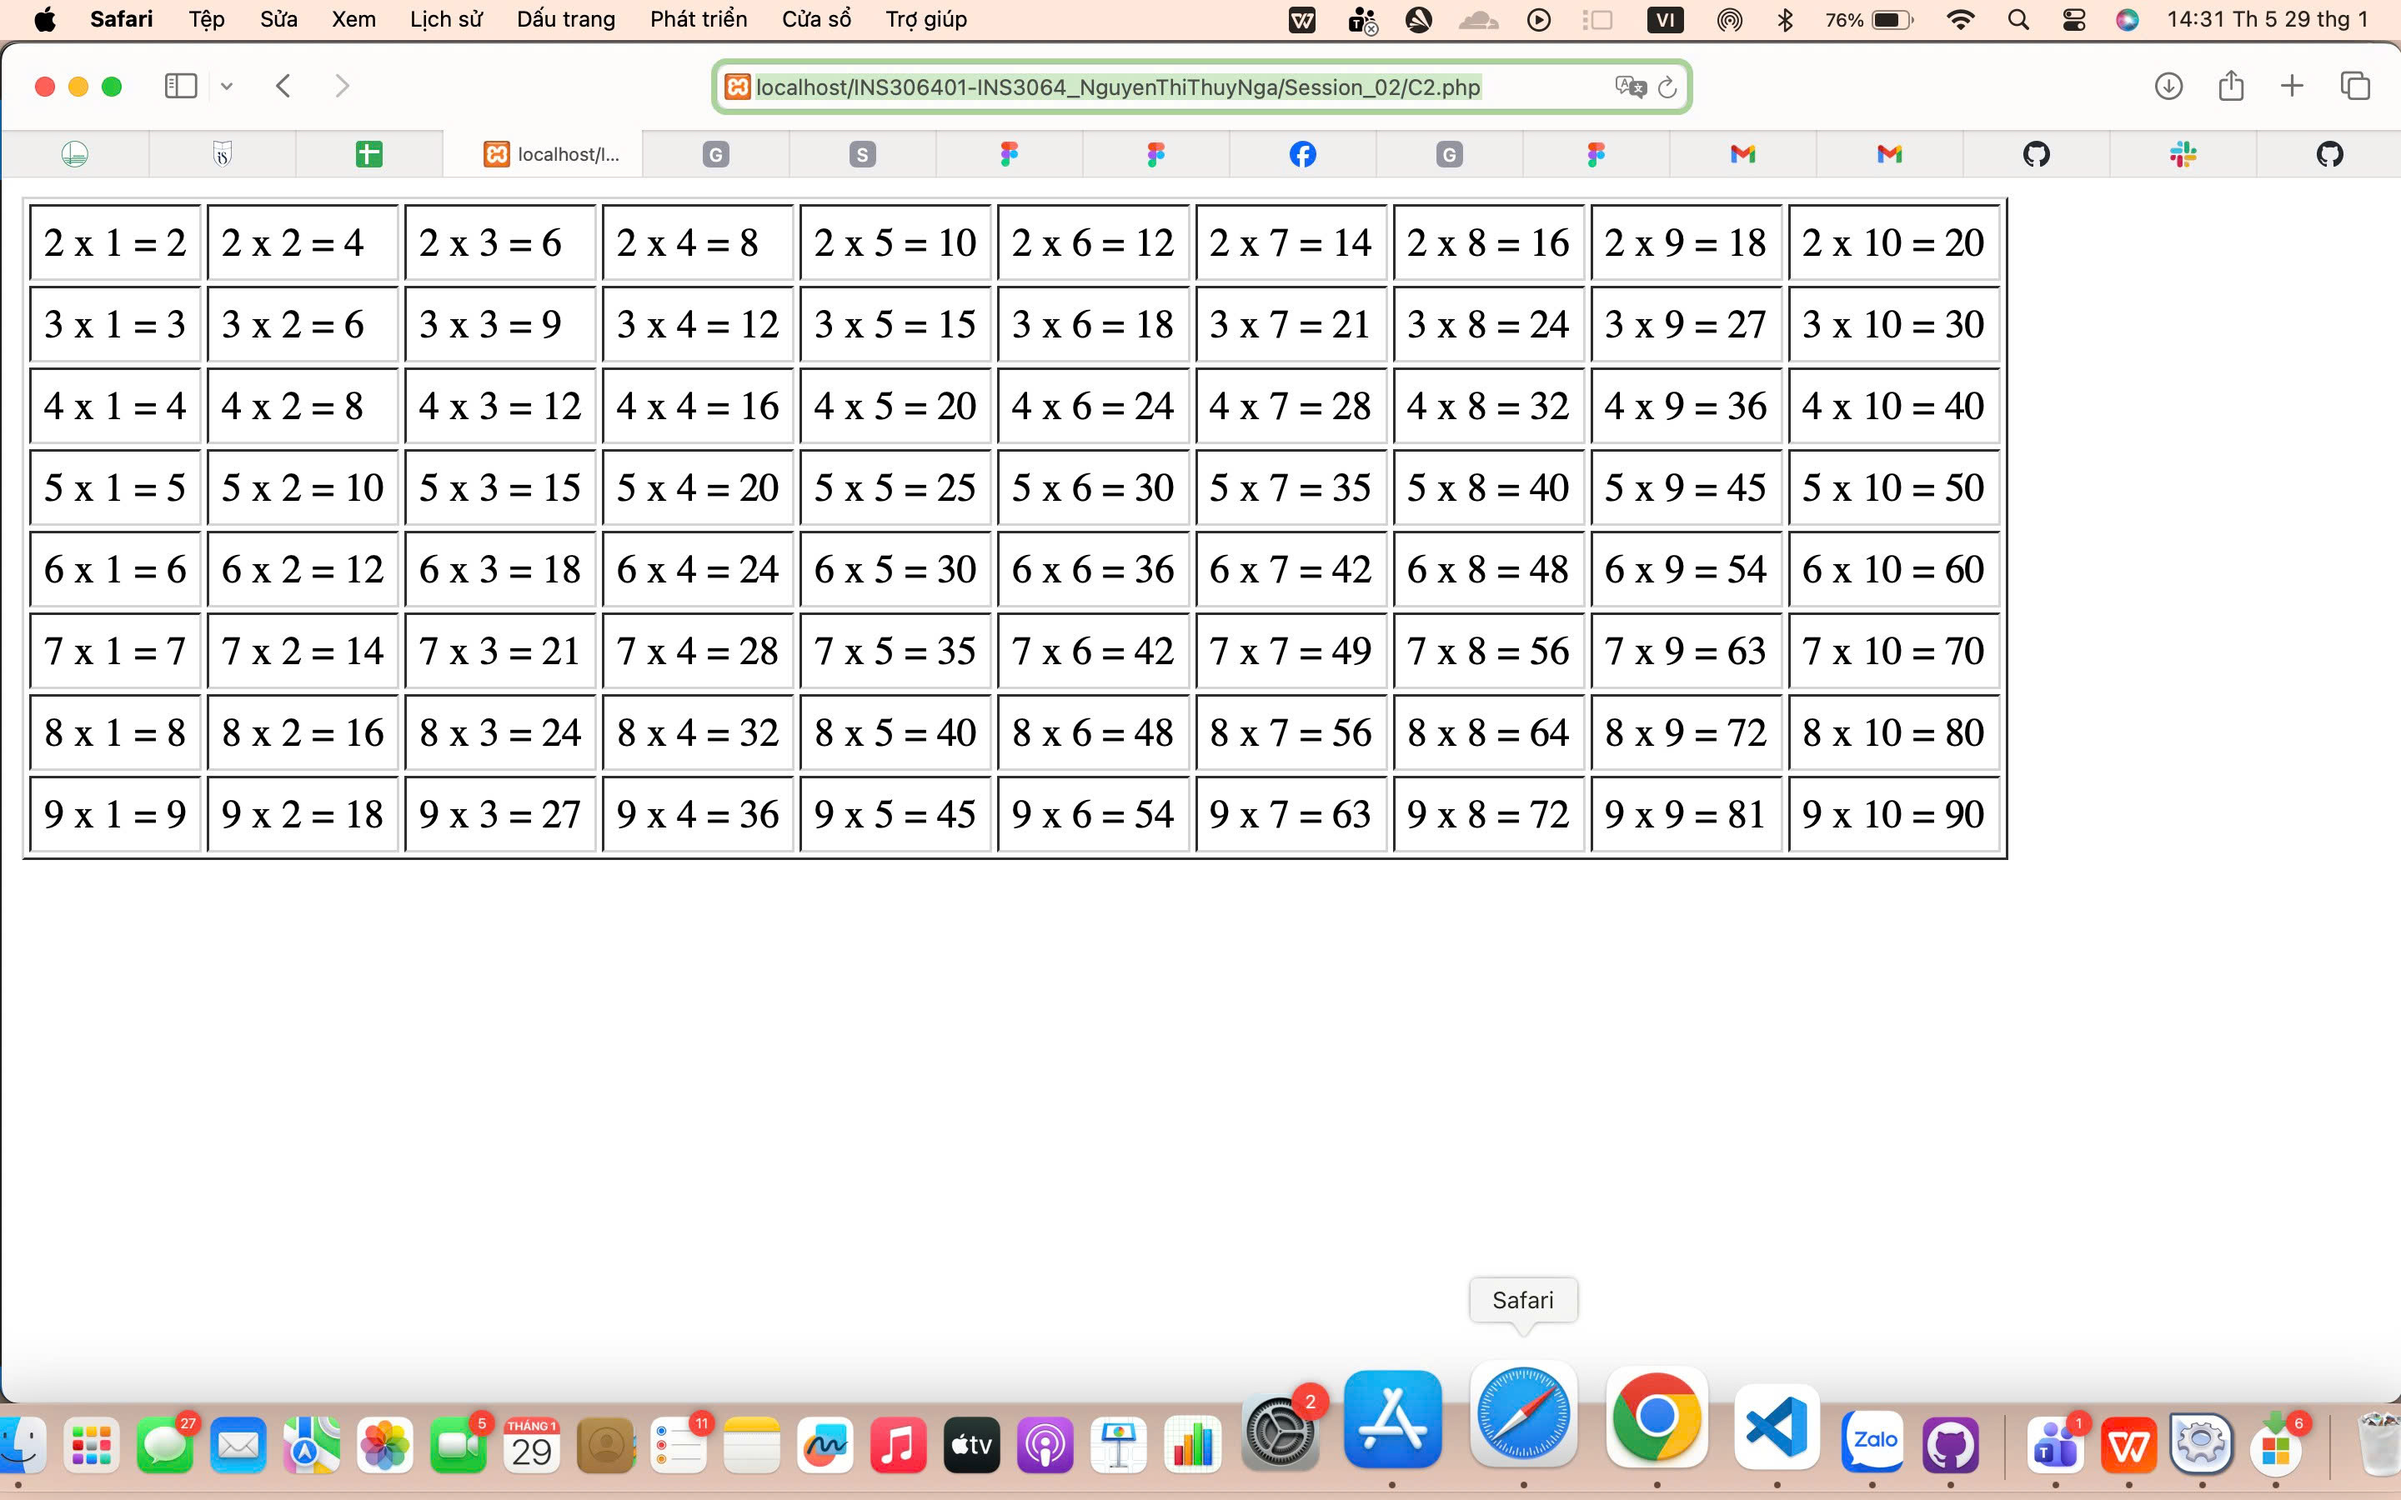
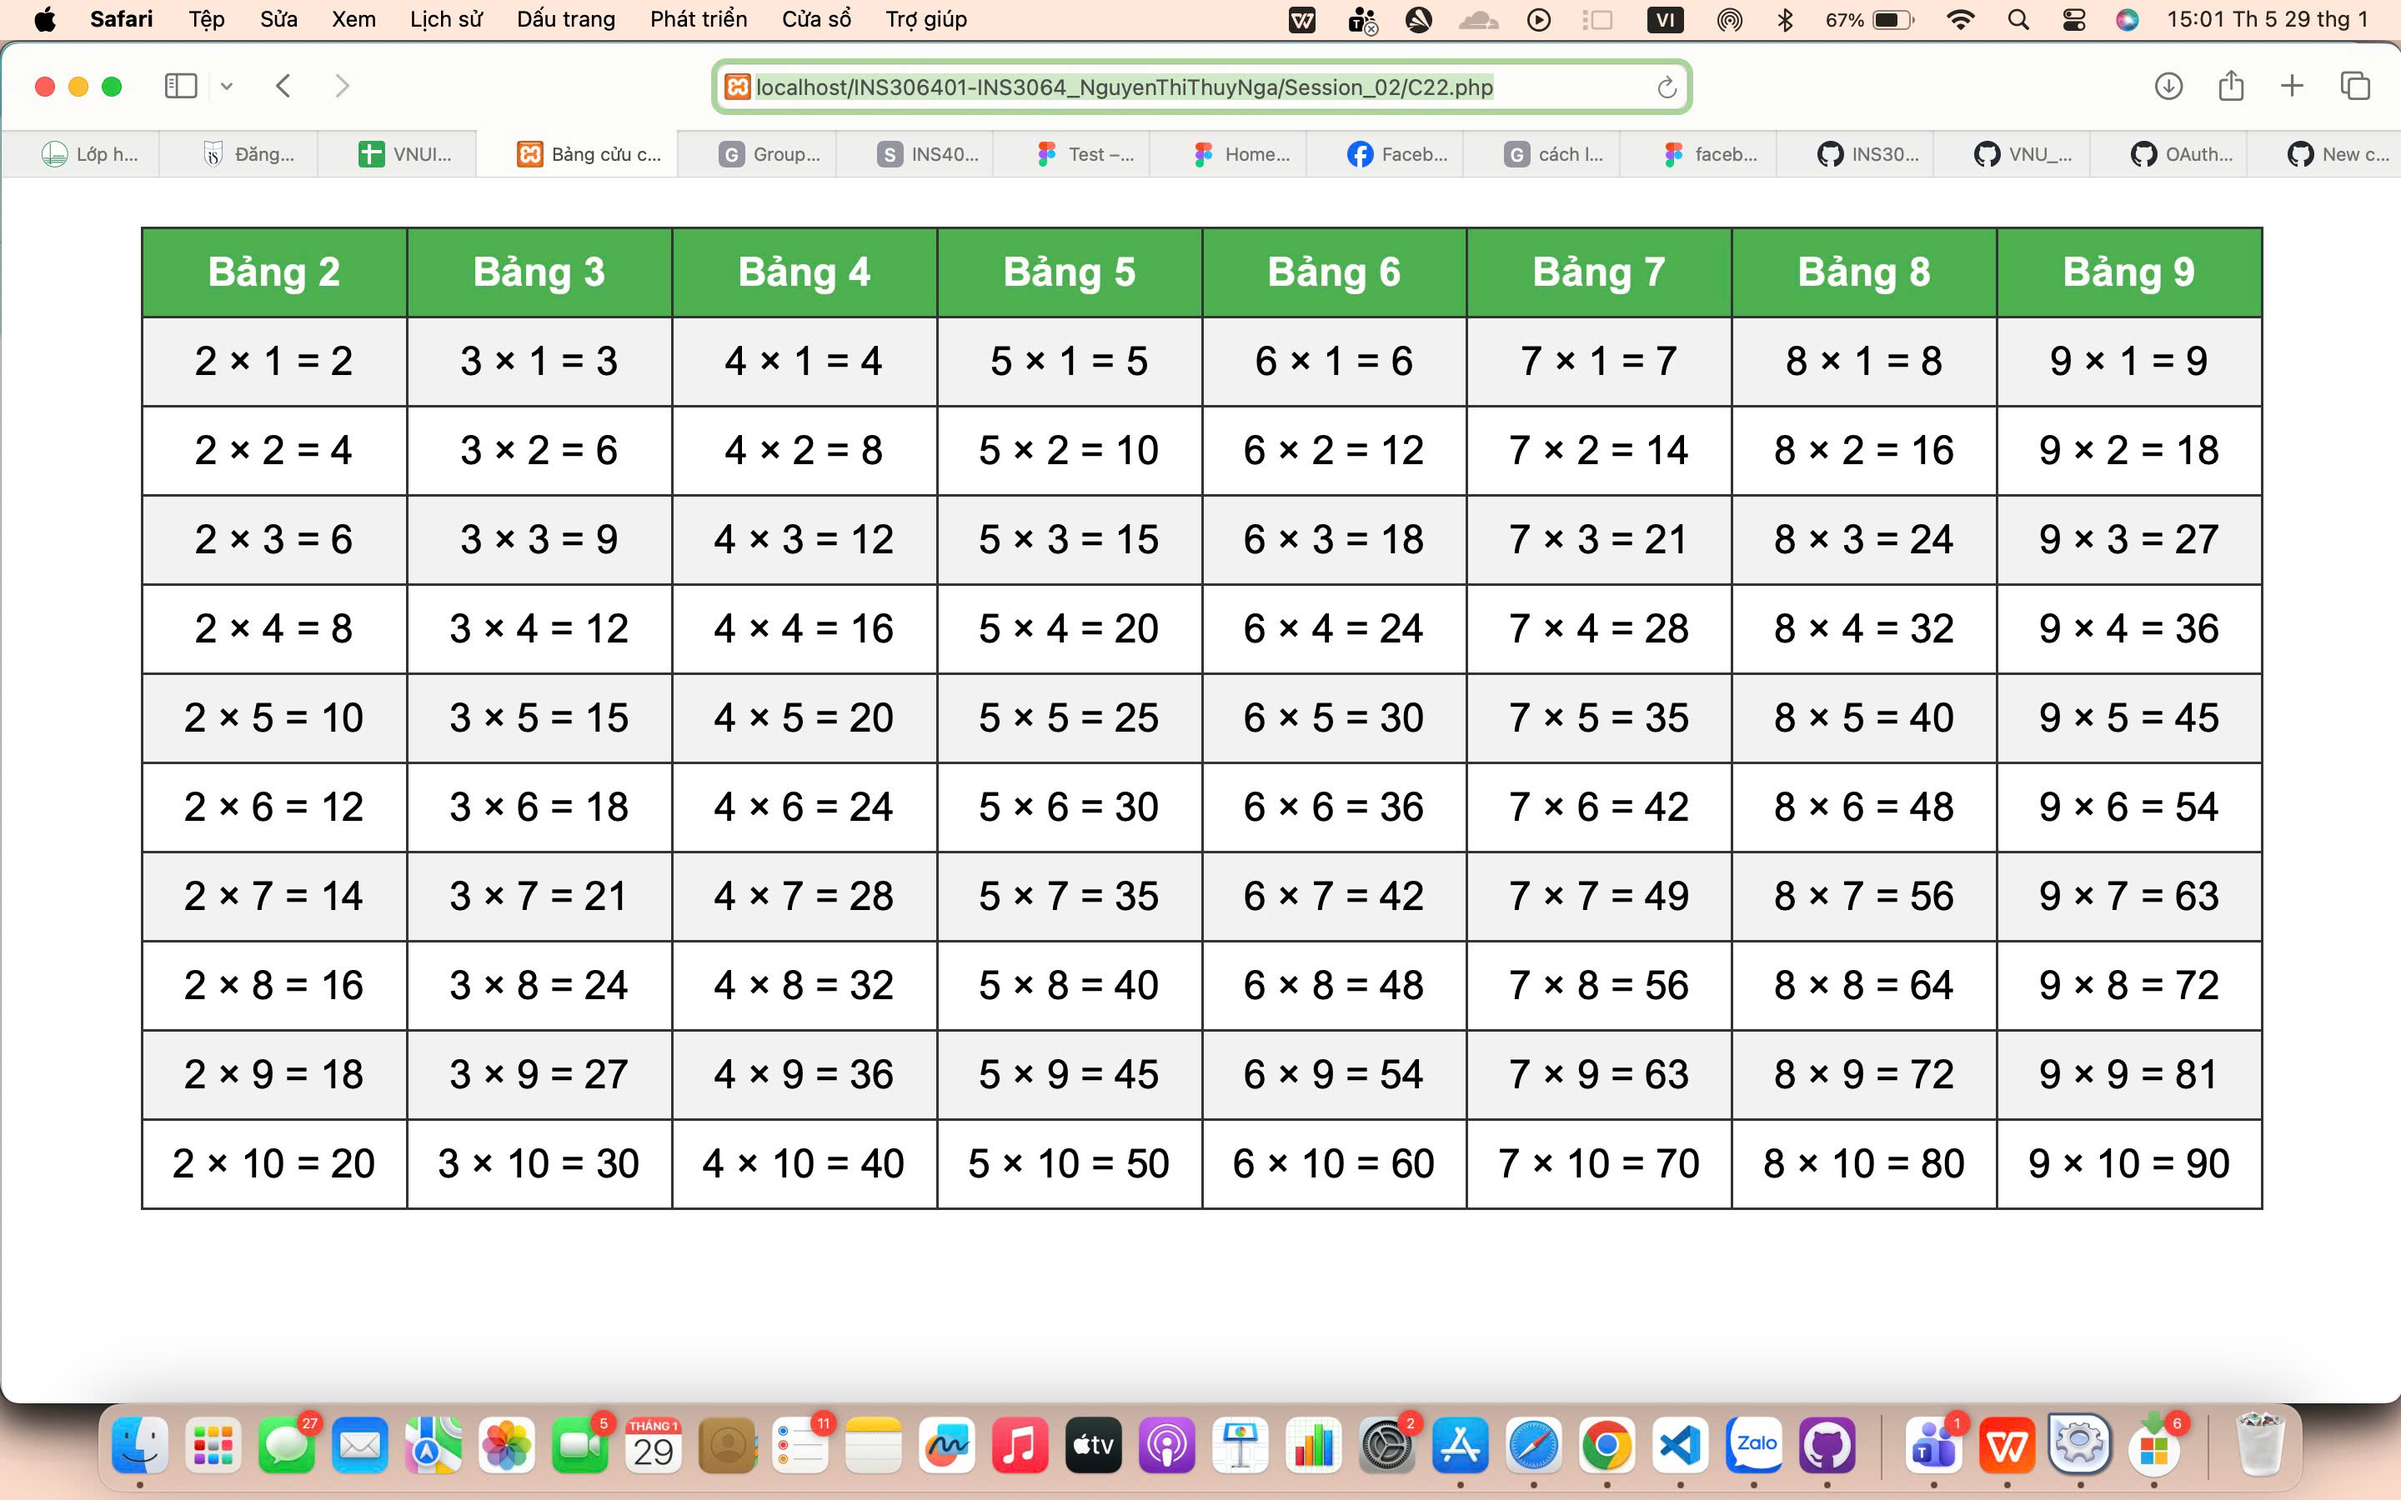
hw

diff --git a/Session_02/C22.php b/Session_02/C22.php
@@ -1,0 +1,55 @@
+<!DOCTYPE html>
+<html lang="vi">
+<head>
+    <meta charset="UTF-8">
+    <title>Bảng cửu chương theo cột</title>
+
+    <style>
+        table {
+            border-collapse: collapse;
+            margin: 20px auto;
+            font-family: Arial, sans-serif;
+        }
+
+        th, td {
+            border: 1px solid #333;
+            padding: 8px 12px;
+            text-align: center;
+        }
+
+        th {
+            background-color: #4CAF50;
+            color: white;
+        }
+
+        tr:nth-child(even) td {
+            background-color: #f2f2f2;
+        }
+    </style>
+</head>
+<body>
+
+<table>
+    <!-- Hàng tiêu đề: Bảng 2 → 9 -->
+    <tr>
+        <?php
+        for ($i = 2; $i <= 9; $i++) {
+            echo "<th>Bảng $i</th>";
+        }
+        ?>
+    </tr>
+
+    <!-- Các hàng từ 1 → 10 -->
+    <?php
+    for ($j = 1; $j <= 10; $j++) {
+        echo "<tr>";
+        for ($i = 2; $i <= 9; $i++) {
+            echo "<td>$i × $j = " . ($i * $j) . "</td>";
+        }
+        echo "</tr>";
+    }
+    ?>
+</table>
+
+</body>
+</html>
